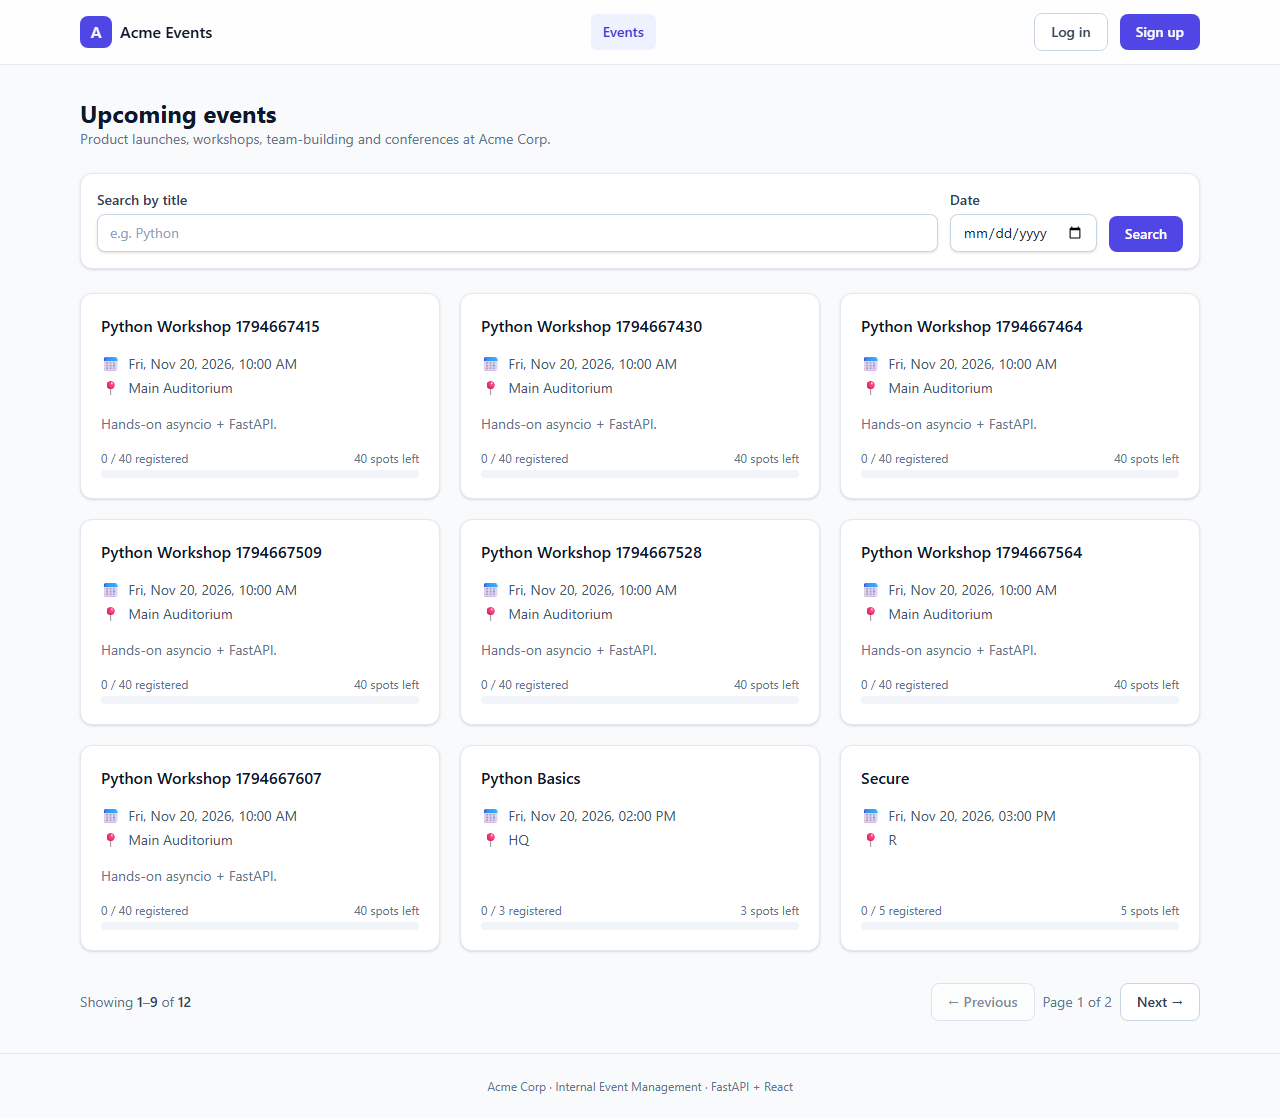
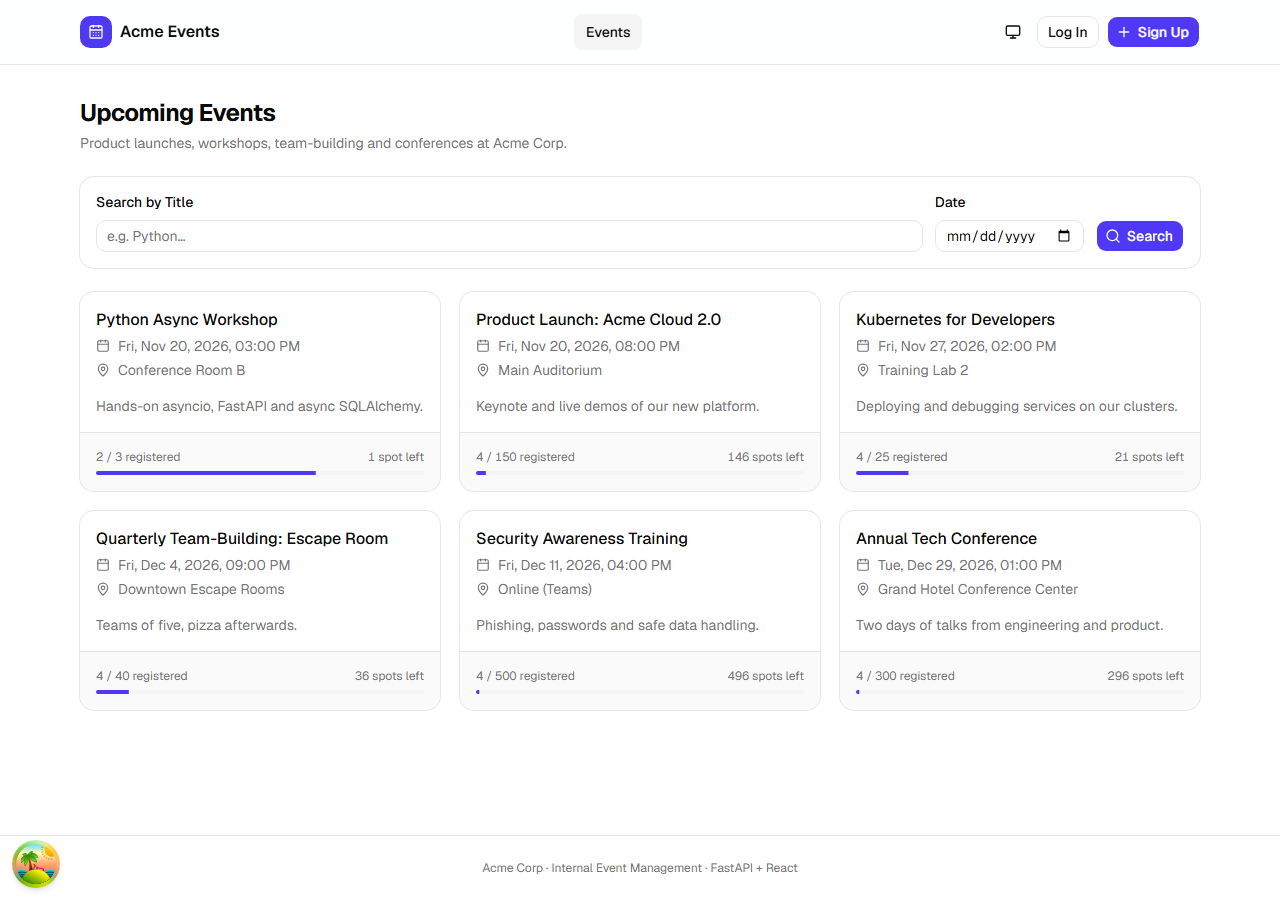
docs: refresh frontend screenshots (light, dark, mobile) and README

diff --git a/frontend/README.md b/frontend/README.md
@@ -9,7 +9,9 @@ React + Vite + TypeScript client for the Acme Corp Event Management API.
 | Routing + protected routes | React Router |
 | Forms + validation | React Hook Form + Zod |
 | HTTP | Axios (JWT interceptor) |
-| Styling / toasts | Tailwind CSS, Sonner |
+| UI components | shadcn/ui (Radix primitives) + lucide icons |
+| Styling / toasts | Tailwind CSS v4 (semantic tokens, light/dark), Sonner |
+| Theme preference | Zustand (persisted), applied before first paint |
 
 ```bash
 npm install
@@ -17,5 +19,12 @@ npm run dev        # http://localhost:5173 (proxies /api -> http://127.0.0.1:800
 npm run build      # production build in dist/
 npm run lint && npm run typecheck
 ```
+
+Add more shadcn components with `npx shadcn@latest add <name>`; they land in `src/components/ui/`
+(vendored source, excluded from lint).
+
+Accessibility and UX follow the Vercel Web Interface Guidelines: skip link, visible focus rings,
+accessible confirmation dialogs for destructive actions, reduced-motion support, correct
+`autocomplete`/`spellcheck` on inputs, tabular numbers, and a warning about unsaved form changes.
 
 Set `VITE_API_URL` to change the API base URL (default `/api`).
